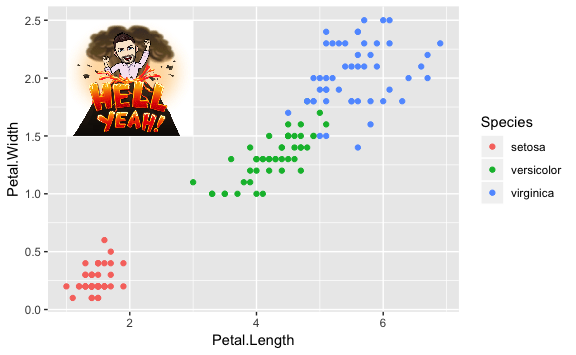
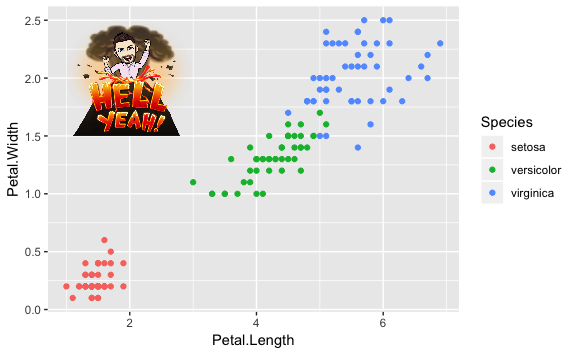
minor tweaks

Changed region(s): [[0.0938, 0.062, 0.3438, 0.4028]]

diff --git a/README.md b/README.md
@@ -73,7 +73,7 @@ par(mfrow = c(2, 2))
 for (i in 1:4) plot_comic(my_id, tag = "cool")
 
 # Overlay comics on various plots
-comic <- get_comic(my_id, tag = "volcano")
+comic <- get_comic(my_id, tag = "volcano", transparent = TRUE)
 library(ggplot2)
 ```
 
